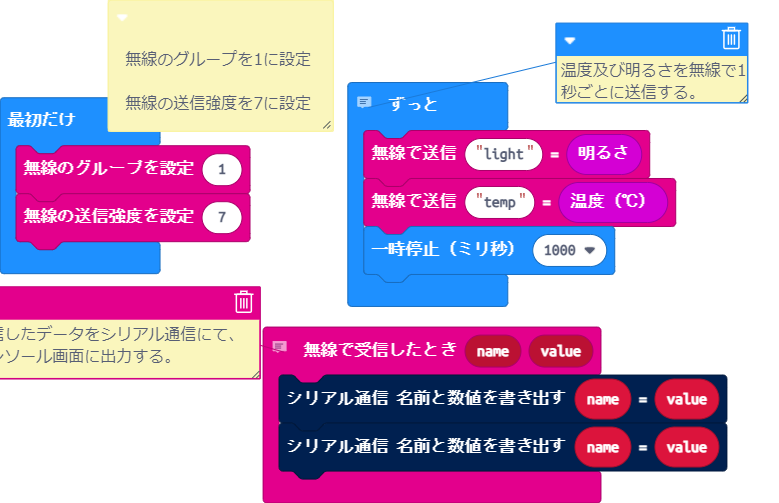
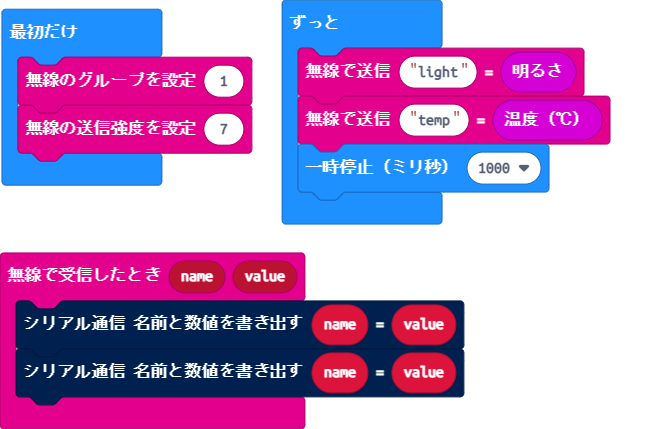
commit

diff --git a/main.ts b/main.ts
@@ -1,16 +1,9 @@
-// 受信したデータをシリアル通信にて、コンソール画面に出力する。
 radio.onReceivedValue(function (name, value) {
     serial.writeValue(name, value)
     serial.writeValue(name, value)
 })
-/**
- * 無線のグループを1に設定
- * 
- * 無線の送信強度を7に設定
- */
 radio.setGroup(1)
 radio.setTransmitPower(7)
-// 温度及び明るさを無線で1秒ごとに送信する。
 basic.forever(function () {
     radio.sendValue("light", input.lightLevel())
     radio.sendValue("temp", input.temperature())
